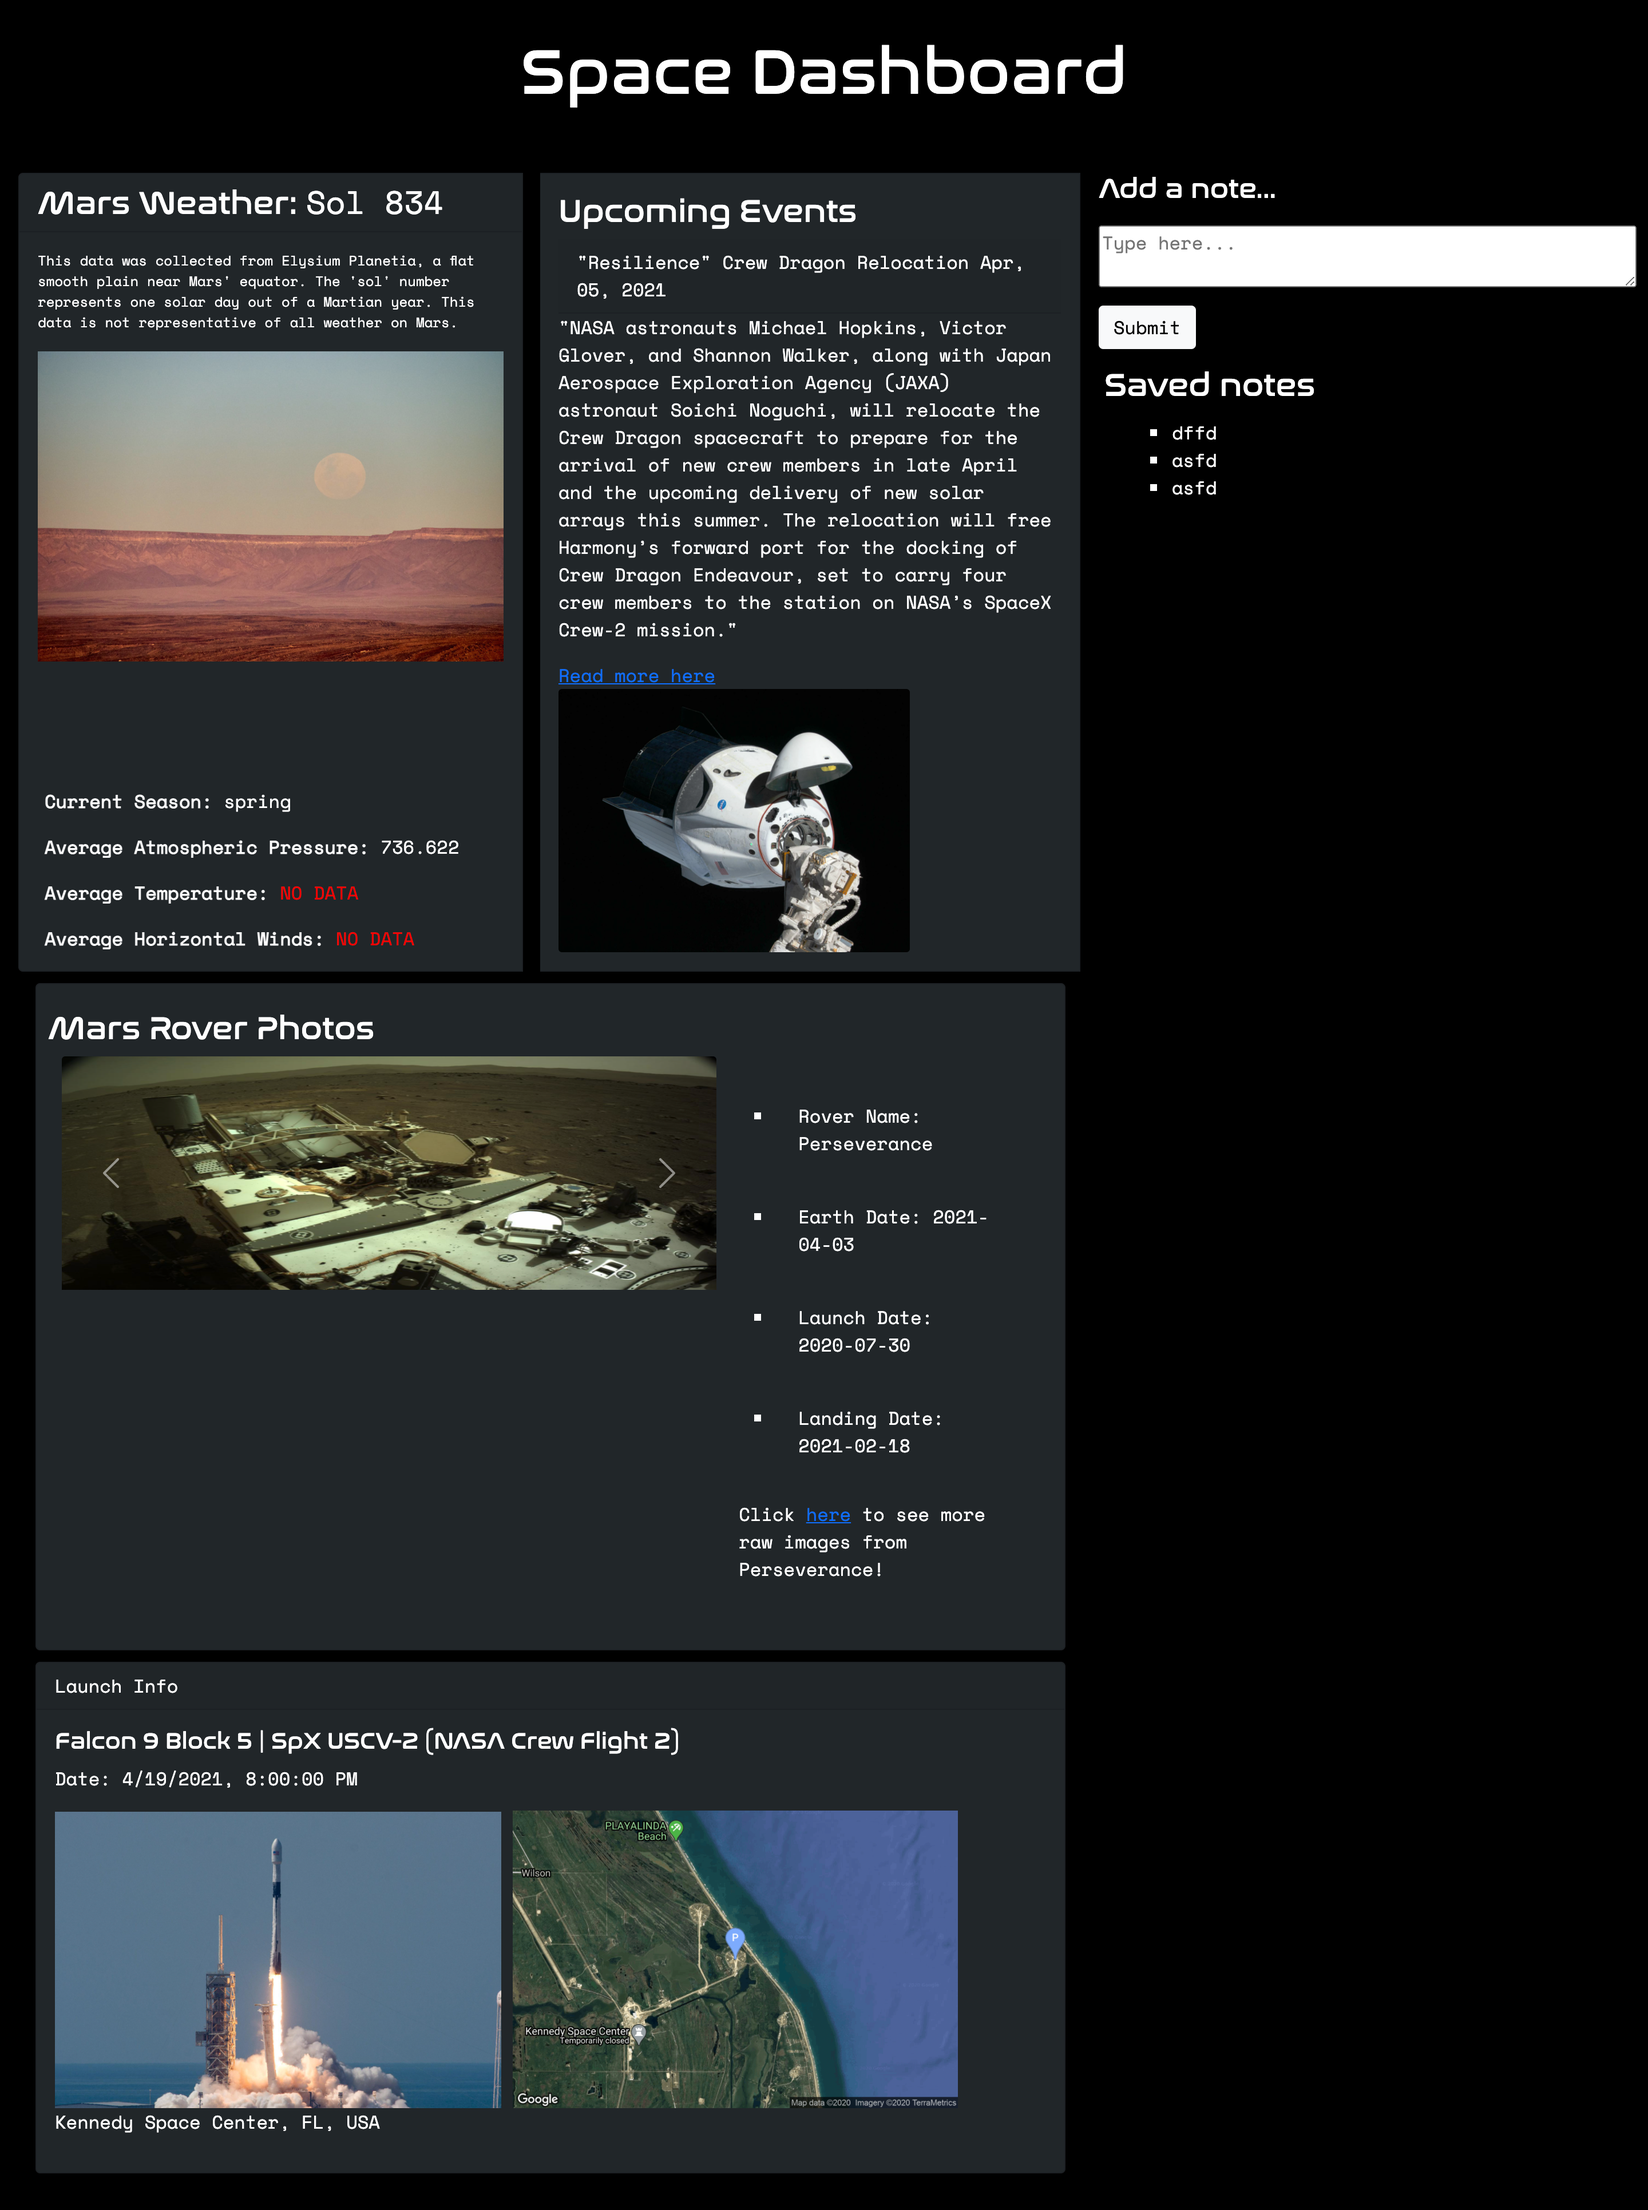
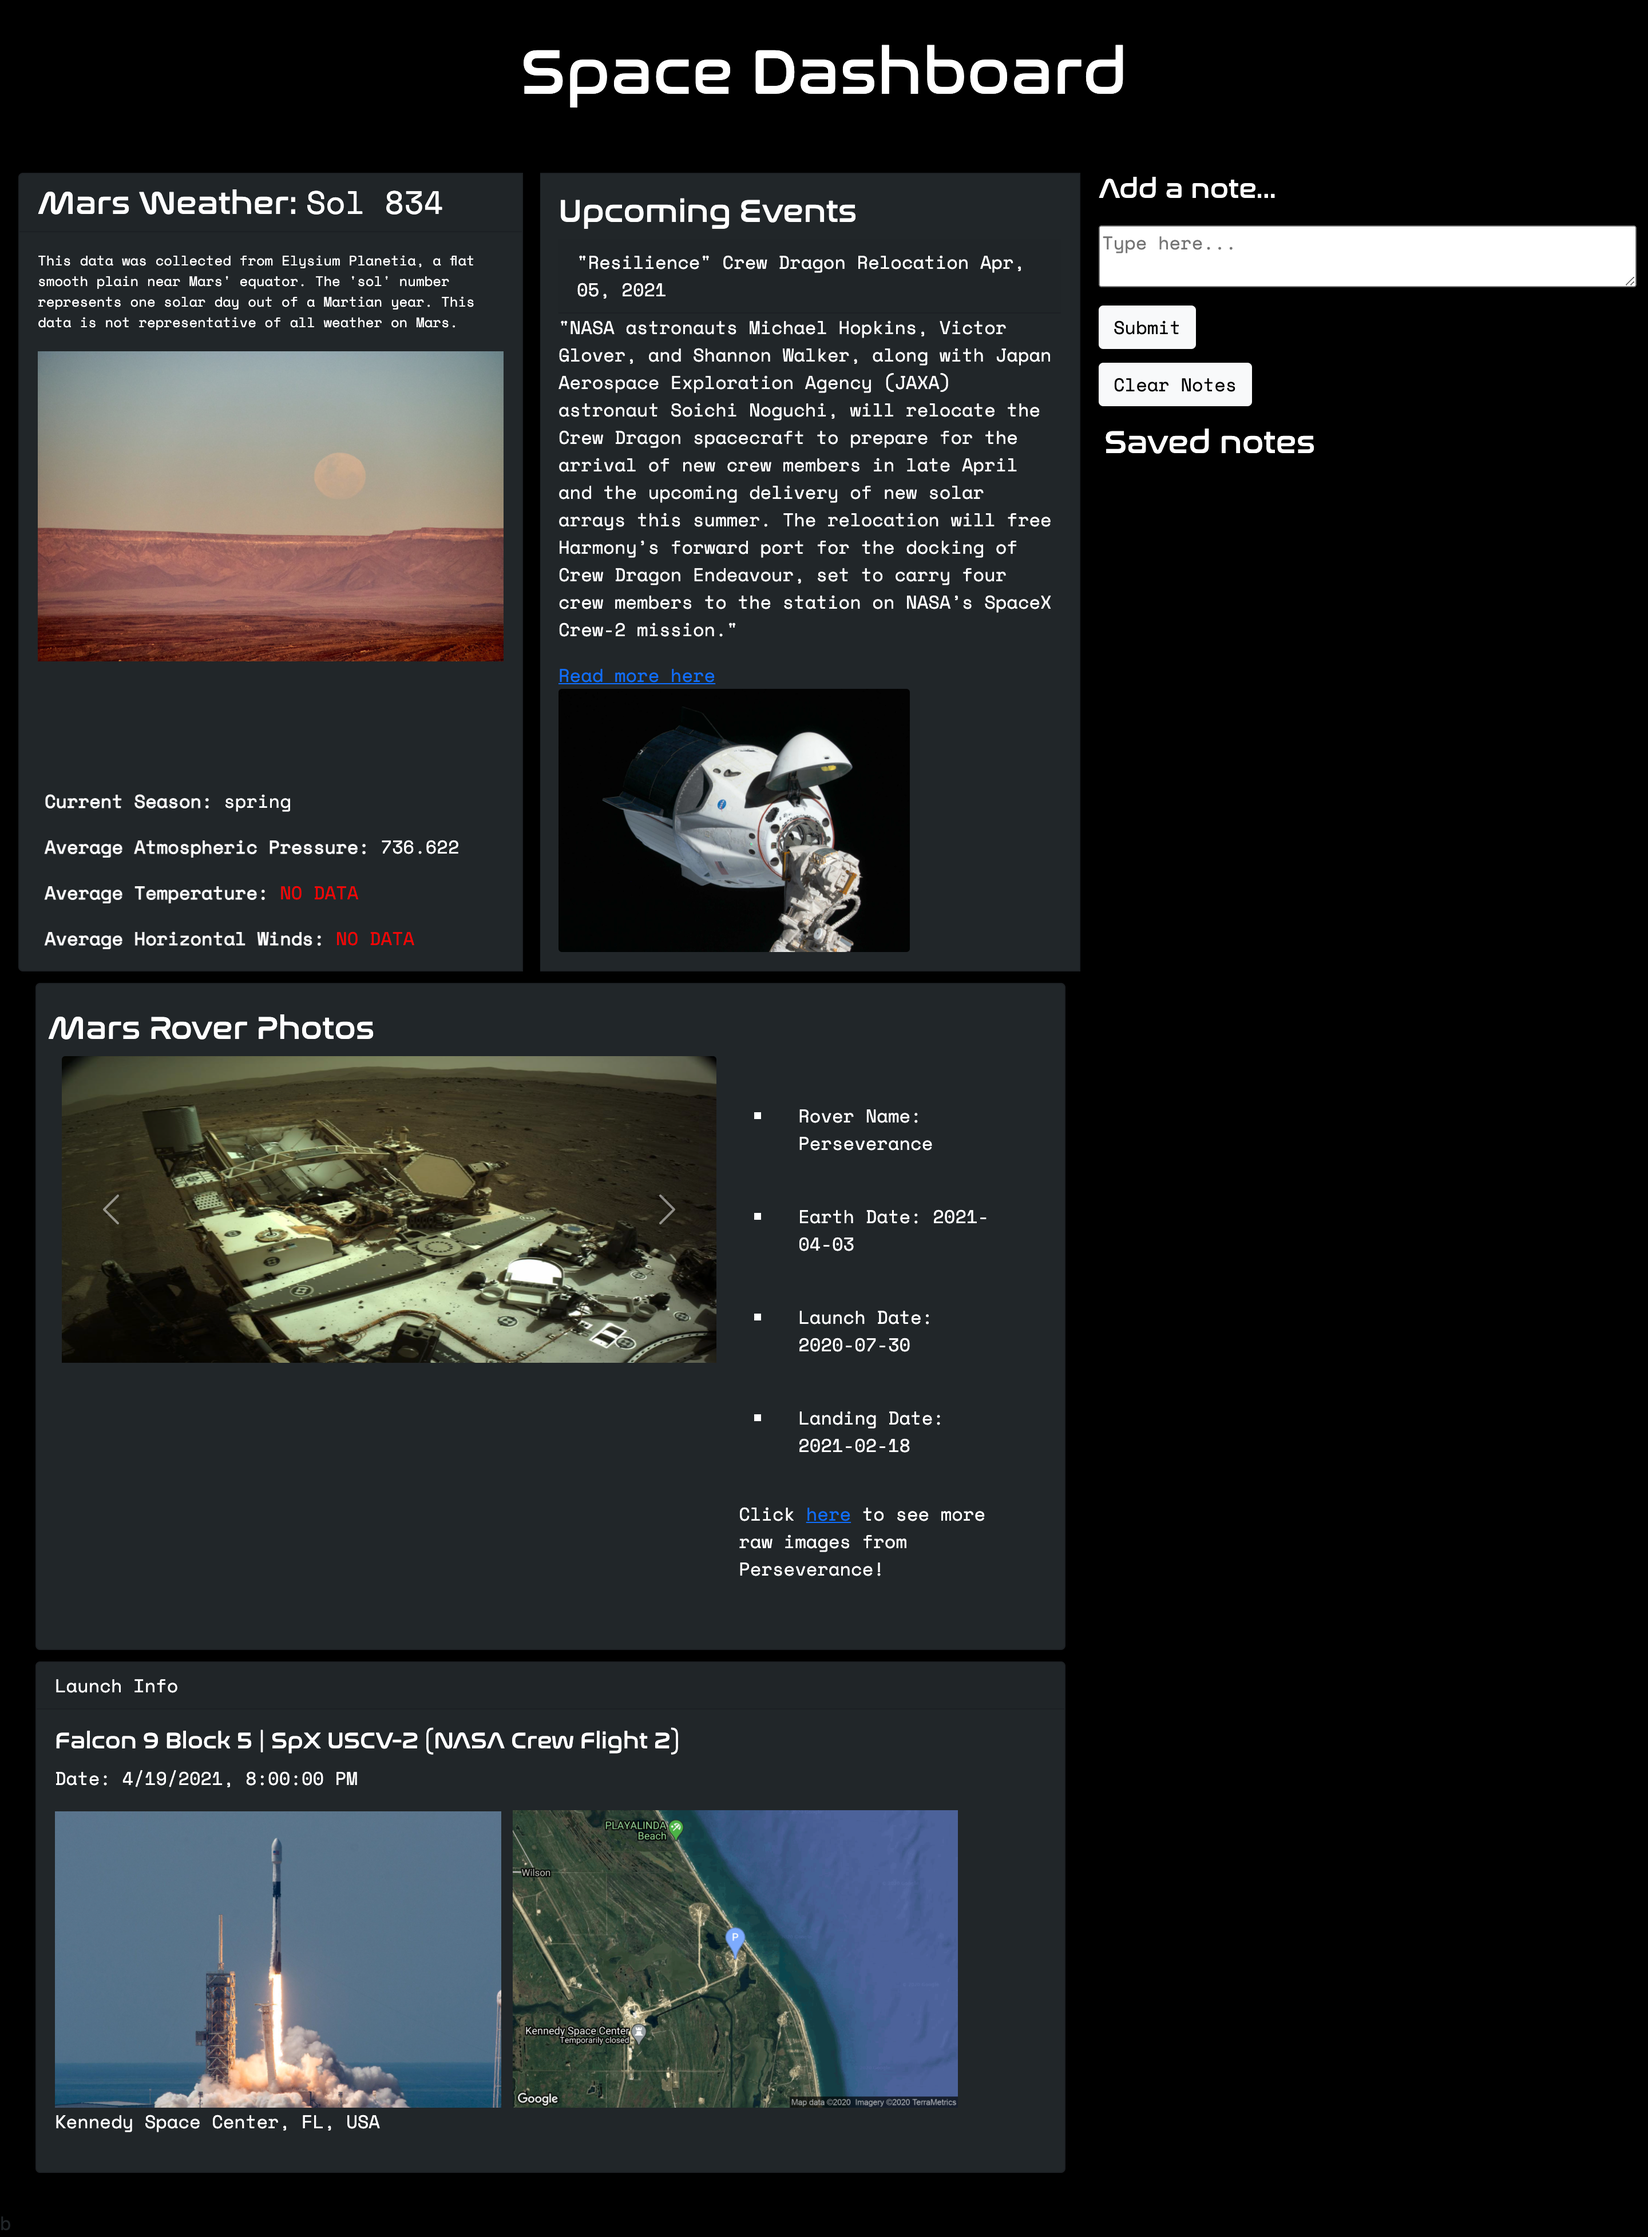
added a clear button that remvoes notes array on click

diff --git a/assets/JS/script.js b/assets/JS/script.js
@@ -135,6 +135,7 @@ getApi(requestUrl)
 var noteFormEl = $("#note-form")
 var noteInputEl = $("#note-input")
 var savedNotesEl = $("#saved-notes")
+var clearButtonEl = $("#clear-button")
 
 
 var notesArray = []
@@ -148,10 +149,16 @@ noteFormEl.on("submit", function (event) {
     var noteInput = noteInputEl.val();
     notesArray.push(noteInput);
     localStorage.setItem("notesArray", JSON.stringify(notesArray))
-
+    noteInputEl.val('');
 
     getList()
 
+})
+
+clearButtonEl.click(function (event) {
+  event.preventDefault();
+  localStorage.removeItem("notesArray");
+  getList()
 })
 
 // get list gets the value of notesArray from storage, iterates through the list, 
@@ -167,6 +174,8 @@ function getList() {
             savedNotesP.append(notesLi)
             savedNotesEl.append(savedNotesP)
         }
+    } else {
+      savedNotesEl.empty();
     }
 }
 

diff --git a/index.html b/index.html
@@ -193,6 +193,15 @@
             Submit
           </button>
         </form>
+        <button
+          class="btn btn-light"
+          id="clear-button"
+          type="button"
+          value="clear-button"
+          style="margin-top: 12px;"
+        >
+          Clear Notes
+        </button>
         <h3 id="notes-header" style="padding: 5px">Saved notes</h3>
         <ul id="saved-notes"></ul>
       </section>
@@ -213,7 +222,7 @@
       crossorigin="anonymous"
     ></script>
 
-    <script src="https://cdnjs.cloudflare.com/ajax/libs/moment.js/2.20.1/moment.min.js"></script>
+    <script src="https://cdnjs.cloudflare.com/ajax/libs/moment.js/2.20.1/moment.min.js"></script>b
     <script src="./assets/JS/script.js"></script>
   </body>
 </html>
